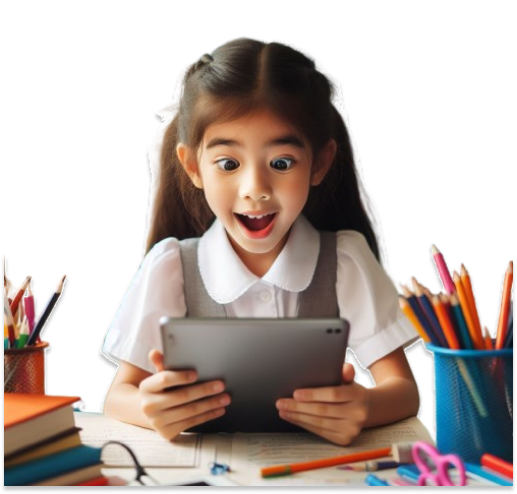
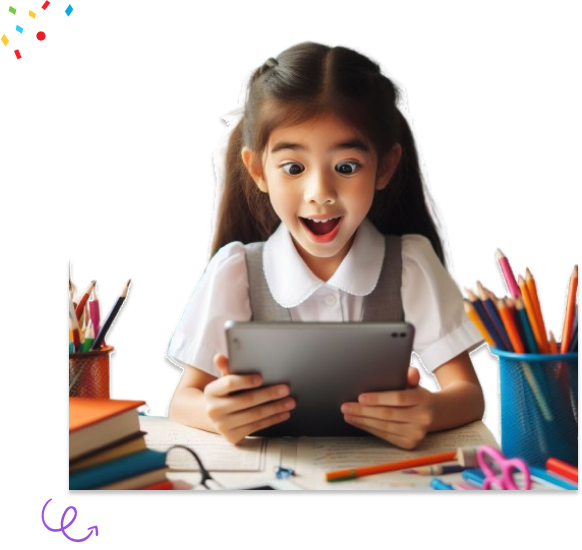
style (otimização)

diff --git a/TCC/src/componentes/Vantagens/vantagens.js b/TCC/src/componentes/Vantagens/vantagens.js
@@ -2,74 +2,44 @@
 import './vantagens.css';
 
 // Importa as imagens que serão usadas no componente
-import Menino from './pensador.png'; // Imagem do menino tendo uma idéia
+import Menino from './pensador.png'; // Imagem do menino tendo uma ideia
 import Como from './como.png'; // Imagem do "Como Funciona?"
 import Menina from './menina.png'; // Imagem da menina
-import Bandeira1 from './bandeira1.png'; // Imagem da primeira bandeira
-import Bandeira2 from './bandeira2.png'; // Imagem da segunda bandeira
-import Bandeira3 from './bandeira3.png'; // Imagem da terceira bandeira
-import Bandeira4 from './bandeira4.png'; // Imagem da quarta bandeira
-import Linha from './linha.png'; // Imagem da linha
-import Formas from './formas.png'; // Imagem das formas
+import Bandeiras from './bandeiras.png'; // Imagem da primeira bandeira
 import { FaCheckCircle } from "react-icons/fa"; // Importa o ícone de check-circle
 
 // Cria um componente chamado Vantagens
 export default function Vantagens() {
     return (
-        <div className='Vantagens'> {/* Div principal com a classe 'Vantagens' */}
-            <div className='Banner'> {/* Div para a seção do Banner */}
-                {/* Imagem do menino pensativo */}
-                <img src={Menino} alt='img1' id='garoto1' width='400px' />
-                {/* Imagem do "Como" */}
-                <img src={Como} alt='img2' id='como' width='580px' />
+        <div className='Vantagens'>
+            <div className='Banner'>
+            </div>
+            <img src={Menino} alt='Menino pensativo' id='garoto1' style={{ width: '400px'}} />
+            <img src={Como} alt='Como Funciona?' id='como' style={{ width: '500px' }} />
+
+            <p className='text1'>
+                O TechBot, nosso chatbot inteligente, está preparado para responder exclusivamente a perguntas relacionadas à tecnologia. 
+                Ele foi criado com o objetivo de ajudar as crianças a aprender, respondendo 
+                de uma maneira simples e clara, para que elas possam entender facilmente. 
+                O TechBot foi programado para fornecer respostas educativas e apropriadas, sempre adaptadas à faixa etária da criança.
+            </p>
+            <p className='text1'>
+                Além disso, o TECHKIDS também oferece jogos educativos focados em tecnologia, 
+                permitindo que as crianças aprendam enquanto brincam, de forma interativa e divertida.
+            </p>
+
+            <div className='Bandeiras'>
+                <img src={Bandeiras} alt='Bandeiras' id='ban1' style={{width: '1300px'}} />
             </div>
 
-            <div>
-                {/* Texto explicando o TechBot */}
-                <p className='text1'>
-                    O TechBot, nosso chatbot inteligente, está preparado para responder exclusivamente a perguntas relacionadas à tecnologia.
-                    Ele foi criado com o objetivo de ajudar as crianças a aprender, respondendo de uma maneira simples e clara, para que elas possam entender facilmente.
-                    O TechBot foi programado para fornecer respostas educativas e apropriadas, sempre adaptadas à faixa etária da criança.
-                </p>
-                {/* Texto sobre jogos educativos */}
-                <p className='text1'>
-                    Além disso, o TECHKIDS também oferece jogos educativos focados em tecnologia, permitindo que as crianças aprendam enquanto brincam, de forma interativa e divertida.
-                </p>
-                
-                {/* Seção para as bandeiras e imagens */}
-                <div className='Bandeiras'>
-                    {/* Imagens das bandeiras */}
-                    <img src={Bandeira1} alt='b1' id='ban1' width='300px' />
-                    <img src={Bandeira2} alt='b2' id='ban2' width='300px' />
-                    <img src={Bandeira3} alt='b3' id='ban3' width='300px' />
-                    <img src={Bandeira4} alt='b4' id='ban4' width='300px' />
-                    {/* Imagem da linha */}
-                    <img src={Linha} alt='img4' id='linha' width='100px' />
-                    {/* Imagem das formas */}
-                    <img src={Formas} alt='img5' id='formas' width='100px' />
-                </div>
-                
-                {/* Seção de Recompensa */}
-                <div className="Recompensa">
-                    {/* Imagem da menina */}
-                    <img src={Menina} alt='img3' id='menina' width='500px' />
-                    <div className="text2"> {/* Div para o texto da recompensa */}
-                        {/* Título da seção */}
-                        <h2><b>O que seu filho vai ganhar depois de estudar e se divertir no Techkids?</b></h2>
-                        <br />
-                        {/* Lista de vantagens com ícones */}
-                        <p className="texto">
-                            <FaCheckCircle /> {/* Ícone de check */}
-                            <b> Raciocínio lógico </b>: Resolver desafios de programação aprimora o pensamento crítico.
-                        </p>
-                        <p className="texto">
-                            <FaCheckCircle /> {/* Ícone de check */}
-                            <b> Criatividade</b>: Aprender a criar e inovar no mundo digital.
-                        </p>
-                        <p className="texto">
-                            <FaCheckCircle /> {/* Ícone de check */}
-                            <b>Confiança na tecnologia</b>: Familiarização com conceitos essenciais para o futuro.
-                        </p>
+            <div className="Recompensa">
+                <img src={Menina} alt='Menina' id='menina' />
+                <div className="text2">
+                    <h2><b>O que seu filho vai ganhar depois de estudar e se divertir no Techkids?</b></h2>
+                    <div className="vantagens-list">
+                        <p className="texto"><FaCheckCircle /> <b> Raciocínio lógico </b>: Resolver desafios de programação aprimora o pensamento crítico.</p>
+                        <p className="texto"><FaCheckCircle /> <b> Criatividade</b>: Aprender a criar e inovar no mundo digital.</p>
+                        <p className="texto"><FaCheckCircle /> <b>Confiança na tecnologia</b>: Familiarização com conceitos essenciais para o futuro.</p>
                     </div>
                 </div>
             </div>

diff --git a/TCC/src/componentes/Vantagens/vantagens.css b/TCC/src/componentes/Vantagens/vantagens.css
@@ -1,15 +1,13 @@
-/* Classe que define o espaço acima do elemento com a classe 'vantagem' */
 .vantagem {
-    margin-top: 10vh; /* Adiciona um espaço no topo igual a 10% da altura da janela */
+    margin-top: 10vh; /* Espaço acima da seção */
+    max-width: 110%;
 }
 
 /* Estilo para a seção do Banner */
 .Banner {
-    /* Cria um gradiente que vai do transparente até a cor vermelha */
-    background-image: linear-gradient(to bottom, transparent 60%, #FF2B00 40%);
-    width: 100%; /* A largura do Banner ocupa toda a tela */
-    min-height: 20vh; /* A altura mínima do Banner é de 20% da altura da janela */
-    border: solid; /* Adiciona uma borda ao redor do Banner */
+    background-image: linear-gradient(to bottom, transparent 60%, #FF2B00 60%, #FF8800 100%);
+    max-width: 110vw; /* A largura do Banner ocupa toda a tela */
+    min-height: 10vh; /* A altura mínima do Banner é de 20% da altura da janela */
 }
 
 /* Classe para a seção de Vantagens */
@@ -32,19 +30,19 @@
 
 /* Estilo para o elemento com o id 'garoto1' */
 #garoto1 {
+    display: flex;
     position: initial; /* O elemento irá seguir o fluxo normal do layout */
-    margin-top: 7.4vh; /* Adiciona espaço acima do elemento */
-    margin-right: 6vw; /* Adiciona espaço à direita do elemento */
-    border-radius: 40px; /* As bordas do elemento ficam arredondadas */
+    margin-top: -27.5%; /* Adiciona espaço acima do elemento */
+    margin-left: 12%; /* Adiciona espaço à direita do elemento */
     bottom: 0%; /* A posição inferior do elemento */
 }
 
 /* Estilo para o elemento com o id 'como' */
 #como {
     position: initial; /* O elemento seguirá o fluxo normal do layout */
-    margin-top: 5vh; /* Adiciona espaço acima do elemento */
+    margin-top: -65vh; /* Adiciona espaço acima do elemento */
     margin-bottom: 5vh; /* Adiciona espaço abaixo do elemento */
-    margin-right: 6vw; /* Adiciona espaço à direita do elemento */
+    margin-left: 30vw; /* Adiciona espaço à direita do elemento */
 }
 
 /* Estilo para o texto com a classe 'text1' */
@@ -79,12 +77,11 @@
     border-radius: 30px; /* Bordas arredondadas */
     display: flex; /* Usar flexbox para organizar os itens dentro do elemento */
     margin-right: 0.1vw; /* Espaço à direita do elemento */
-    background-color: #00547534; /* Cor de fundo do elemento */
 }
 
 /* Estilo para o texto dentro da classe 'text2' */
 .text2 {
-    width: 25vw; /* Largura do texto é 25% da largura da tela */
+    width: 40vw; /* Largura do texto é 25% da largura da tela */
     flex-direction: column; /* Empilha os elementos verticalmente */
     align-items: flex-start; /* Alinha os itens à esquerda */
     text-align: left; /* Alinha o texto à esquerda */
@@ -103,20 +100,4 @@
 /* Estilo para o elemento com a classe 'Check' */
 .Check {
     background-color: transparent; /* Fundo transparente para o elemento */
-}
-
-/* Estilo para a linha com o id 'linha' */
-#linha {
-    position: absolute; /* Permite posicionar a imagem de forma absoluta */
-    bottom: -73vw; /* Posição da imagem a partir da parte inferior da tela */
-    left: 7vw; /* Distância da imagem a partir da esquerda */
-    width: 5vw; /* Tamanho da imagem */
-}
-
-/* Estilo para o elemento com o id 'formas' */
-#formas {
-    position: absolute; /* Permite posicionar a imagem de forma absoluta */
-    bottom: -42vw; /* Posição da imagem a partir da parte inferior da tela */
-    left: 4vw; /* Distância da imagem a partir da esquerda */
-    width: 5vw; /* Tamanho da imagem */
 }
